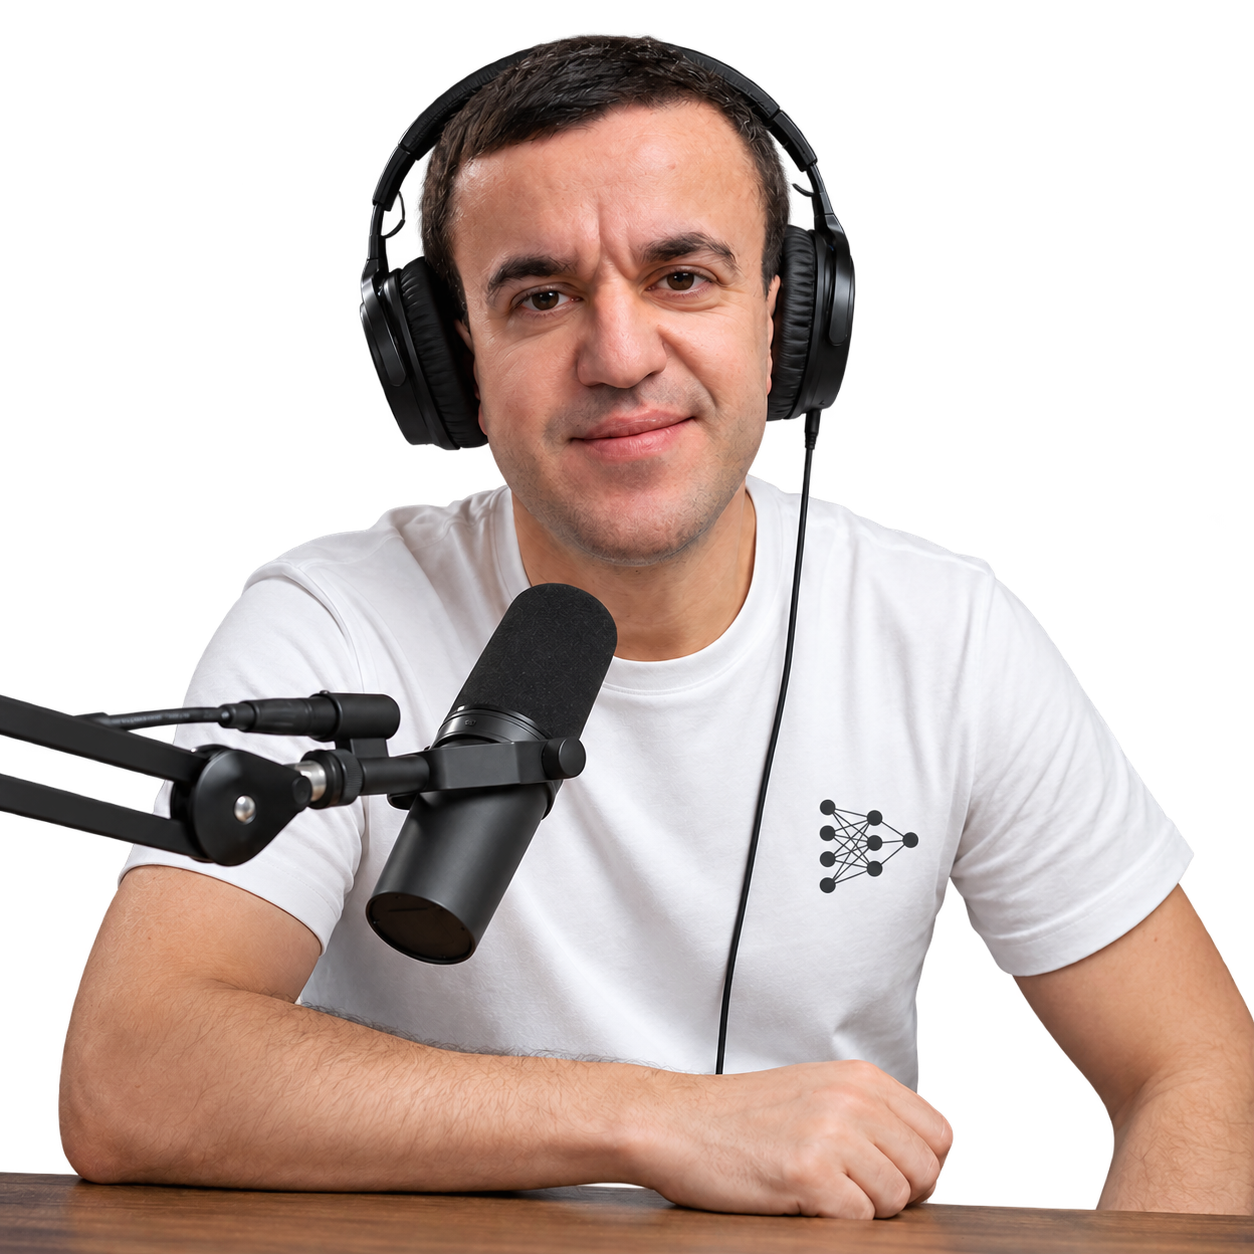
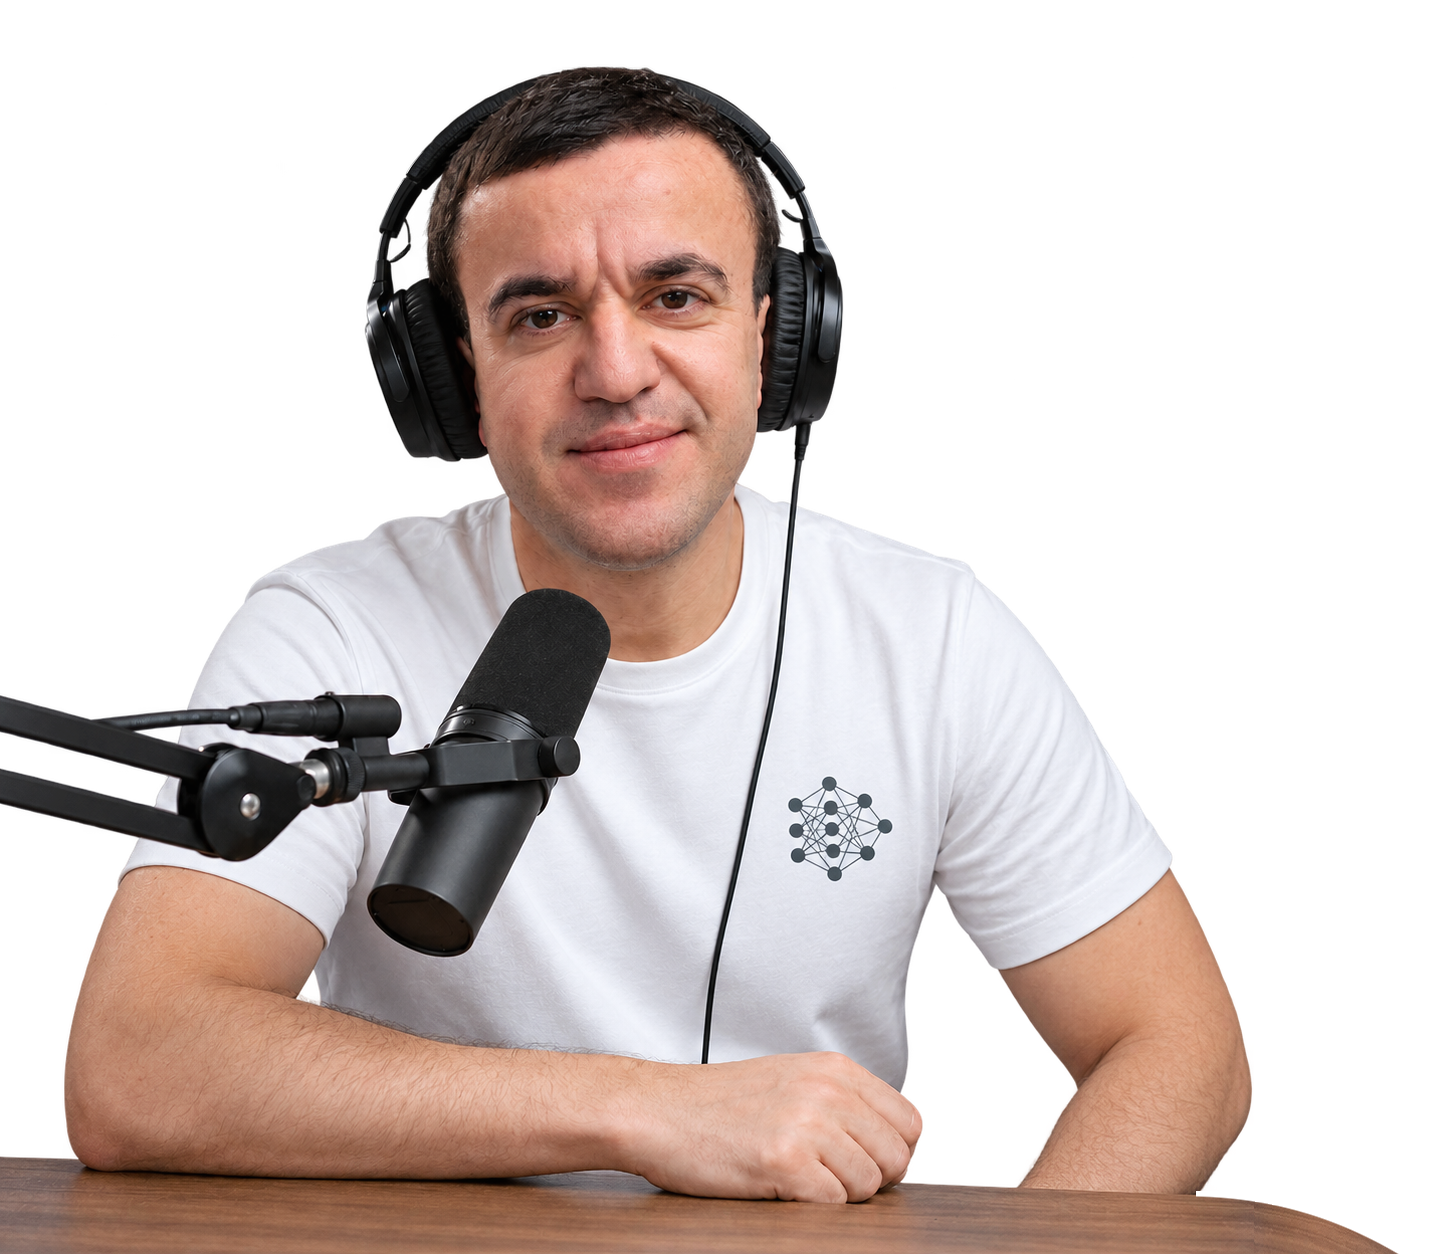
podcast stili

diff --git a/styles.css b/styles.css
@@ -6608,6 +6608,7 @@ a:focus-visible {
 }
 
 .podcast-showcase-inner {
+  position: relative;
   display: grid;
   grid-template-columns: minmax(0, 1.02fr) minmax(430px, 0.9fr);
   align-items: center;
@@ -6618,6 +6619,9 @@ a:focus-visible {
 .podcast-showcase-copy {
   position: relative;
   z-index: 3;
+  grid-column: 2;
+  justify-self: end;
+  width: 100%;
   max-width: 700px;
   padding: 12px 0;
 }
@@ -6798,11 +6802,6 @@ a:focus-visible {
   backdrop-filter: blur(16px);
 }
 
-.podcast-showcase-search:focus-within {
-  border-color: rgba(142, 186, 255, 0.64);
-  box-shadow: none;
-}
-
 .podcast-showcase-search .search-input {
   width: 100%;
   color: #fff;
@@ -6827,11 +6826,47 @@ a:focus-visible {
   color: #003080;
 }
 
+/* Focused bar turns white, so its contents flip to navy */
+.podcast-showcase-search:focus-within {
+  border-color: rgba(0, 48, 128, 0.24);
+  background: #fff;
+  box-shadow: 0 12px 28px rgba(0, 12, 40, 0.26);
+  outline: 3px solid rgba(255, 107, 53, 0.9);
+  outline-offset: 3px;
+}
+
+.podcast-showcase-search .search-input:focus-visible {
+  outline: none;
+}
+
+.podcast-showcase-search:focus-within .search-input {
+  color: #002566;
+}
+
+.podcast-showcase-search:focus-within .search-input::placeholder {
+  color: rgba(0, 37, 102, 0.52);
+}
+
+.podcast-showcase-search:focus-within .search-btn {
+  background: #003080;
+  color: #fff;
+}
+
+.podcast-showcase-search:focus-within .search-btn:hover {
+  background: #002566;
+  color: #fff;
+}
+
 .podcast-showcase-visual {
-  position: relative;
-  align-self: stretch;
-  min-height: 430px;
-  margin-right: -32px;
+  position: absolute;
+  top: auto;
+  right: auto;
+  bottom: -34px;
+  left: min(0px, calc(740px - 50vw));
+  width: min(54vw, 650px);
+  height: 550px;
+  min-height: 0;
+  margin: 0;
   background: #003080;
 }
 
@@ -6843,11 +6878,15 @@ a:focus-visible {
 .podcast-showcase-image {
   position: absolute;
   z-index: 1;
-  right: 0;
-  bottom: -8px;
-  width: min(100%, 520px);
-  height: auto;
+  top: 0;
+  right: auto;
+  bottom: 0;
+  left: 0;
+  width: auto;
+  max-width: none;
+  height: 100%;
   object-fit: contain;
+  object-position: left bottom;
 }
 
 .podcast-showcase-watermark {
@@ -6903,7 +6942,7 @@ a:focus-visible {
   }
 
   .podcast-showcase-visual {
-    margin-right: -50px;
+    left: min(0px, calc(740px - 50vw));
   }
 }
 
@@ -6919,6 +6958,8 @@ a:focus-visible {
   }
 
   .podcast-showcase-copy {
+    grid-column: 1;
+    justify-self: stretch;
     max-width: 680px;
     padding-bottom: 10px;
   }
@@ -6929,13 +6970,23 @@ a:focus-visible {
   }
 
   .podcast-showcase-visual {
+    position: relative;
+    top: auto;
+    right: auto;
+    bottom: auto;
+    left: auto;
+    width: auto;
+    height: auto;
     min-height: 420px;
     margin: 0 -24px;
   }
 
   .podcast-showcase-image {
-    right: 2%;
-    width: min(78vw, 500px);
+    right: auto;
+    left: 0;
+    width: auto;
+    max-width: 100%;
+    height: 100%;
   }
 
   .podcast-showcase-visual::before {
@@ -7011,8 +7062,11 @@ a:focus-visible {
   }
 
   .podcast-showcase-image {
-    right: -4%;
-    width: min(100%, 430px);
+    right: auto;
+    left: -4%;
+    width: auto;
+    max-width: 108%;
+    height: 100%;
   }
 
   .podcast-showcase-wordmark {

diff --git a/podcast.html b/podcast.html
@@ -81,7 +81,7 @@
         </div>
 
         <div class="podcast-showcase-visual" aria-hidden="true">
-          <img class="podcast-showcase-image" src="assets/images/podcast-hero.jpg" alt="" width="1200" height="1200" decoding="async" fetchpriority="high">
+          <img class="podcast-showcase-image" src="assets/images/podcast-hero-cutout.png" alt="" width="1454" height="1254" decoding="async" fetchpriority="high">
         </div>
       </div>
     </section>
